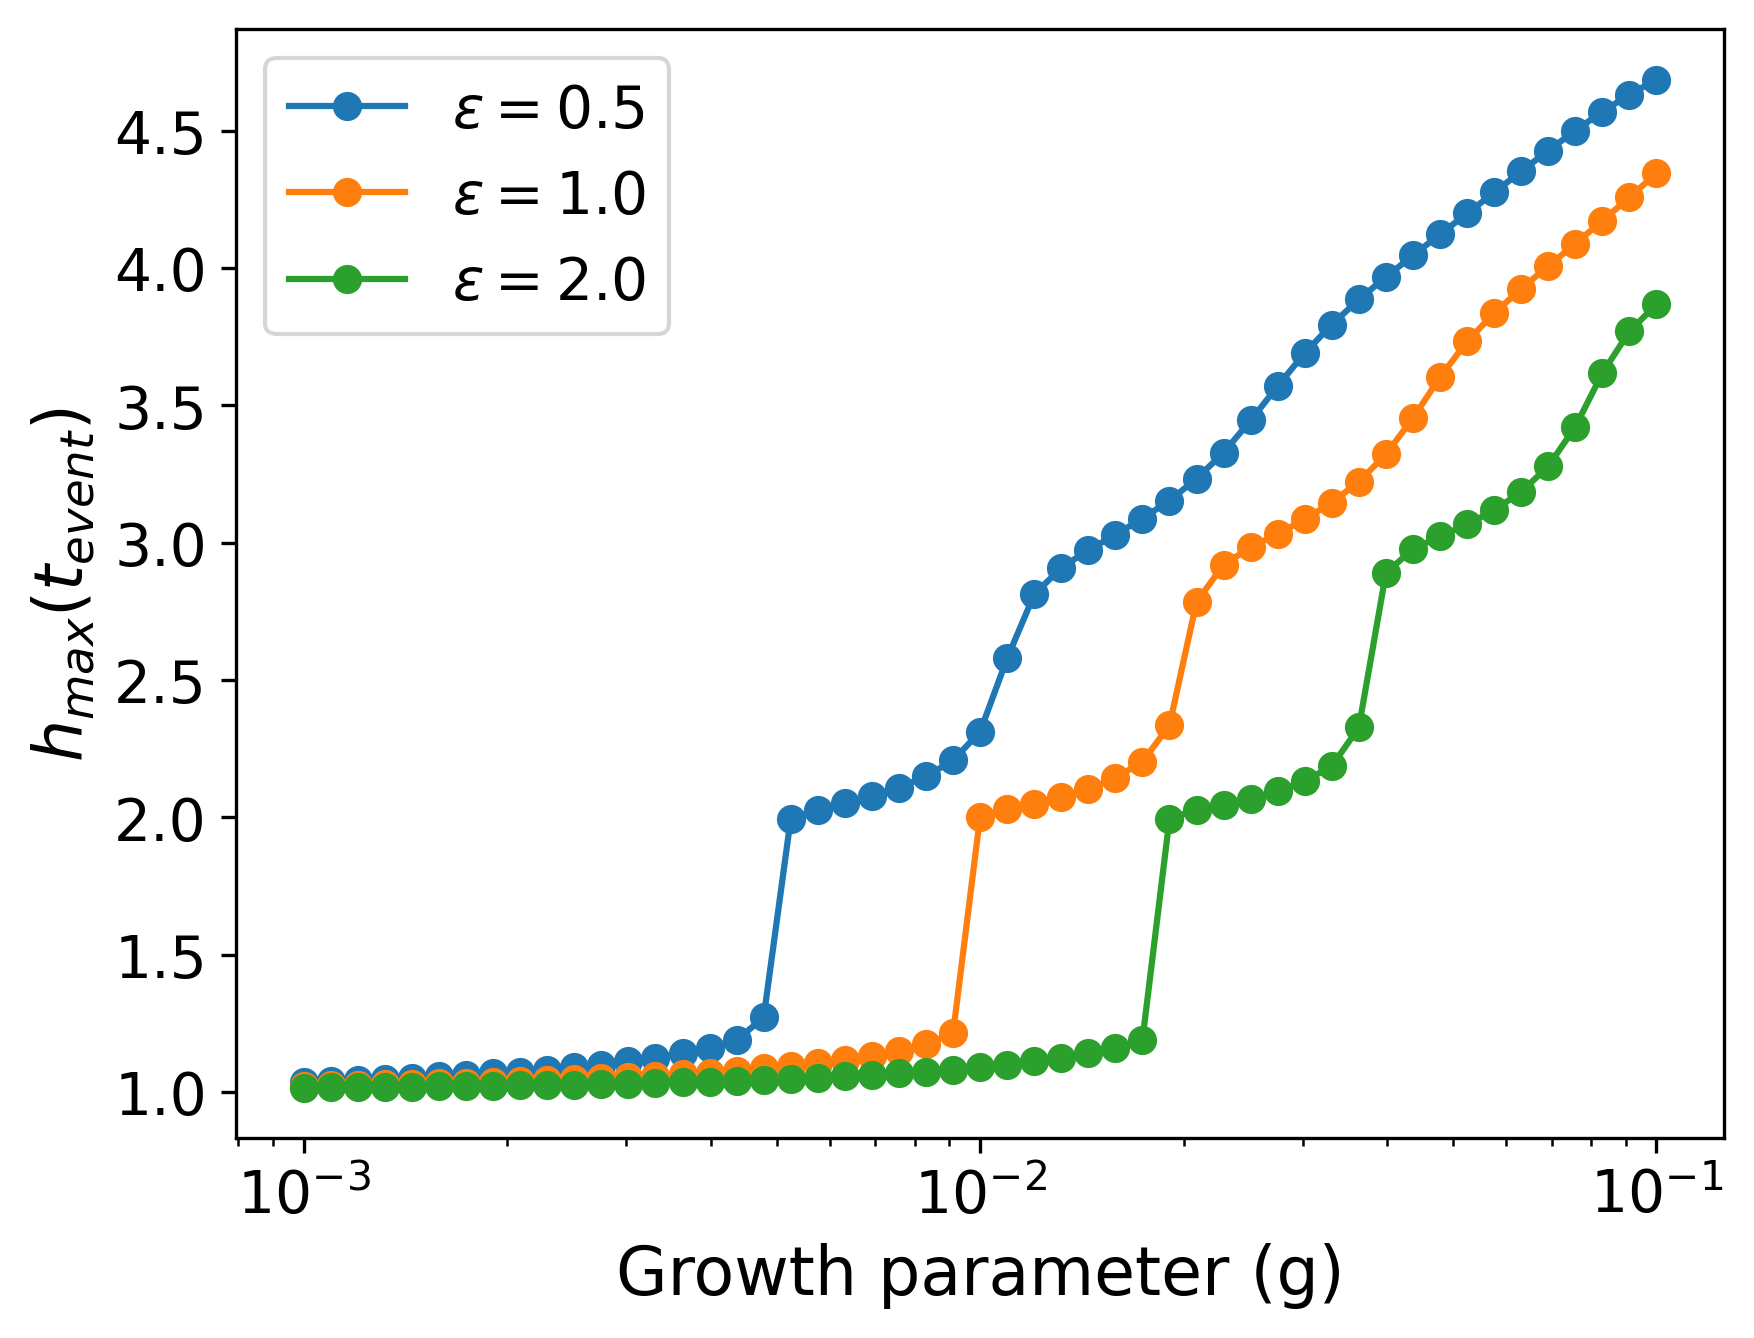
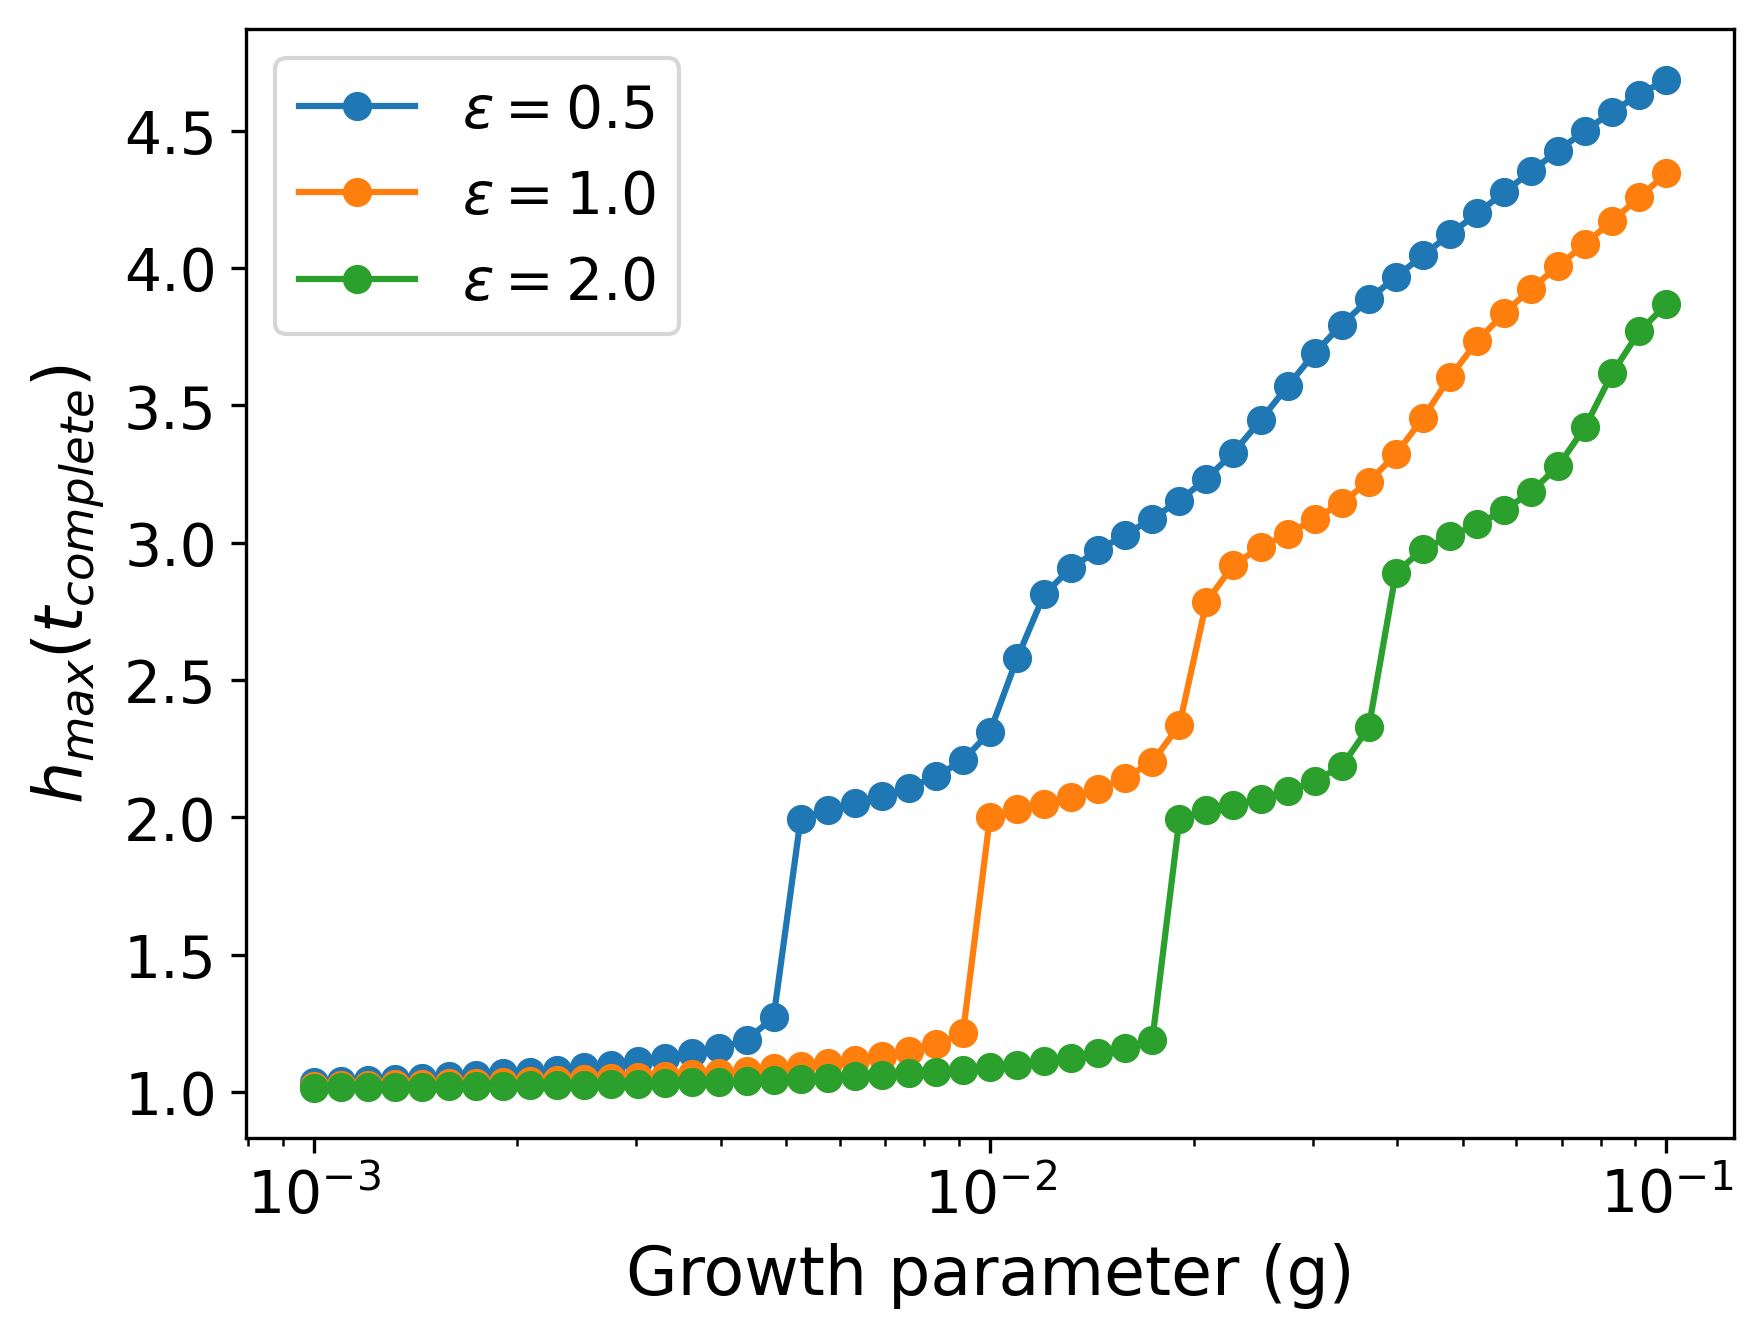
Replot some graphs

diff --git a/OneD_FDM_simple_model.py b/OneD_FDM_simple_model.py
@@ -203,12 +203,12 @@ class FDM_OneD_Thin_Film_Model(OneD_Base_Model):
 
 if __name__ == "__main__":
     
-    params = {'amplitude': 1.0, 'g': 1, 'L': 200, 'N': 2048, 'epsilon': 1}
-    T = 2500
+    params = {'amplitude': 1.0, 'g': 1e-3, 'L': 100, 'N': 1024, 'epsilon': 1}
+    T = 2000
     model = FDM_OneD_Thin_Film_Model(use_numba= False, **params)
     #t_eval = [500, 1000, 1250, 1500, 1750, 2000, 2250, 2500]
     t_eval = np.linspace(0, T, 6)
-    """
+    
     h_init = model.setup_initial_conditions('gaussian')
     print(f"Baseline h_b ={model.h0 + 0.01}")
     times, H = model.solve(h_init, T = T, t_eval = t_eval, method = 'LSODA', event = False)
@@ -222,15 +222,15 @@ if __name__ == "__main__":
         f = model.f
     )
 
-    plot_filename = 'thin_film_g10-1_eps1_t200_L200'
+    plot_filename = 'thin_film_g10-3_eps1_t2000'
     save_filename = "Results/values/thin_film_profile.npz"
-    """
+    
     figure_handler = fh.FigureHandler(model)
     #model.save_profile_values(times, H, save_filename)
-    #figure_handler.plot_profiles(H.T, times, pot_minima = h_mins, plot_filename = None)
+    figure_handler.plot_profiles(H.T, times, pot_minima = h_mins, plot_filename = plot_filename)
     
     #figure_handler.plot_binding_energy(model.f, filename = "binding_potential")
-    figure_handler.plot_growth_function(model.growth_term, filename = "growth_function")
+    #figure_handler.plot_growth_function(model.growth_term, filename = "growth_function")
     #print(f"Minima of g\u2081 are found at {h_mins} \n with values {g1_mins}.")
     #figure_handler.plot_free_energy(H, times)
 

diff --git a/binding_potential_plots.py b/binding_potential_plots.py
@@ -14,13 +14,19 @@ def h(x):
     # g(x) = 0.5 * ( -1/(2 x^2) + 0.3^3/(5 x^5) )
     return 0.5 * ( -1.0 / (2.0 * x**2) + (0.3**3) / (5.0 * x**5) )
 
+def k(x):
+    b = -0.5
+    #return 3*(1 / (x-b)**5 - 1/(x-b)**2 + np.exp(-(x-b)/3)*0.5)
+    return (1 / (x-b)**5 - 1.5/(x-b)**2 + np.exp(-(x-b)/3)**0.5)
+
+
 def main():
     # Domain (avoid x=0 to prevent division-by-zero)
-    x_min, x_max = 0.1, 4
+    x_min, x_max = 0.1, 5
     x = np.linspace(x_min, x_max, 10001)
 
     y_f = f(x)
-    y_g = g(x)
+    y_k = k(x)
     y_h = h(x)
     y_lo = -2
     y_hi = 2
@@ -32,11 +38,11 @@ def main():
     #axes[0].grid(True, alpha=0.3)
 
     # Plot g
-    axes[1].plot(x, y_g)
+    axes[1].plot(x, y_h)
     #axes[1].grid(True, alpha=0.3)
 
     # Plot h
-    axes[2].plot(x, y_h)
+    axes[2].plot(x, y_k)
     #axes[2].grid(True, alpha=0.3)
 
     # Shared axes labels & limits

diff --git a/plot_from_data.py b/plot_from_data.py
@@ -47,7 +47,7 @@ def plot_first_layer_event_from_csv(csv_filename, filename_event_time = None, fi
     # Format height plot
     ax_h.set_xscale('log')
     ax_h.set_xlabel('Growth parameter (g)')
-    ax_h.set_ylabel('$h_{max}(t_{event})$')
+    ax_h.set_ylabel('$h_{max}(t_{complete})$')
     #ax_h.set_title('Height at middle of profile')
     ax_h.legend()
 
@@ -416,7 +416,7 @@ if __name__ == "__main__":
         
         plot_first_layer_event_from_csv("Results/data/first_layer_many_steps_wider_interval.csv",
                             filename_event_time=None,
-                            filename_height=None)
+                            filename_height=filename_height)
     else:
         print(f"There is no option {choice}!")
     

diff --git a/plot_grid_t_event.py b/plot_grid_t_event.py
@@ -97,7 +97,7 @@ def replot_event_profiles_from_csv(csv_filename, x, g_values, epsilon_values,
             if i == 0:
                 ax.set_xlabel(fr"x, $\epsilon$ = {eps}")
             if j == 0:
-                ax.set_ylabel(fr"$h(x, t_{{event}})$" +"\n" + f"g = {g}")
+                ax.set_ylabel(fr"$h(x, t_{{complete}})$" +"\n" + f"g = {g}")
 
     if plot_filename:
         outdir = os.path.dirname(plot_filename)
